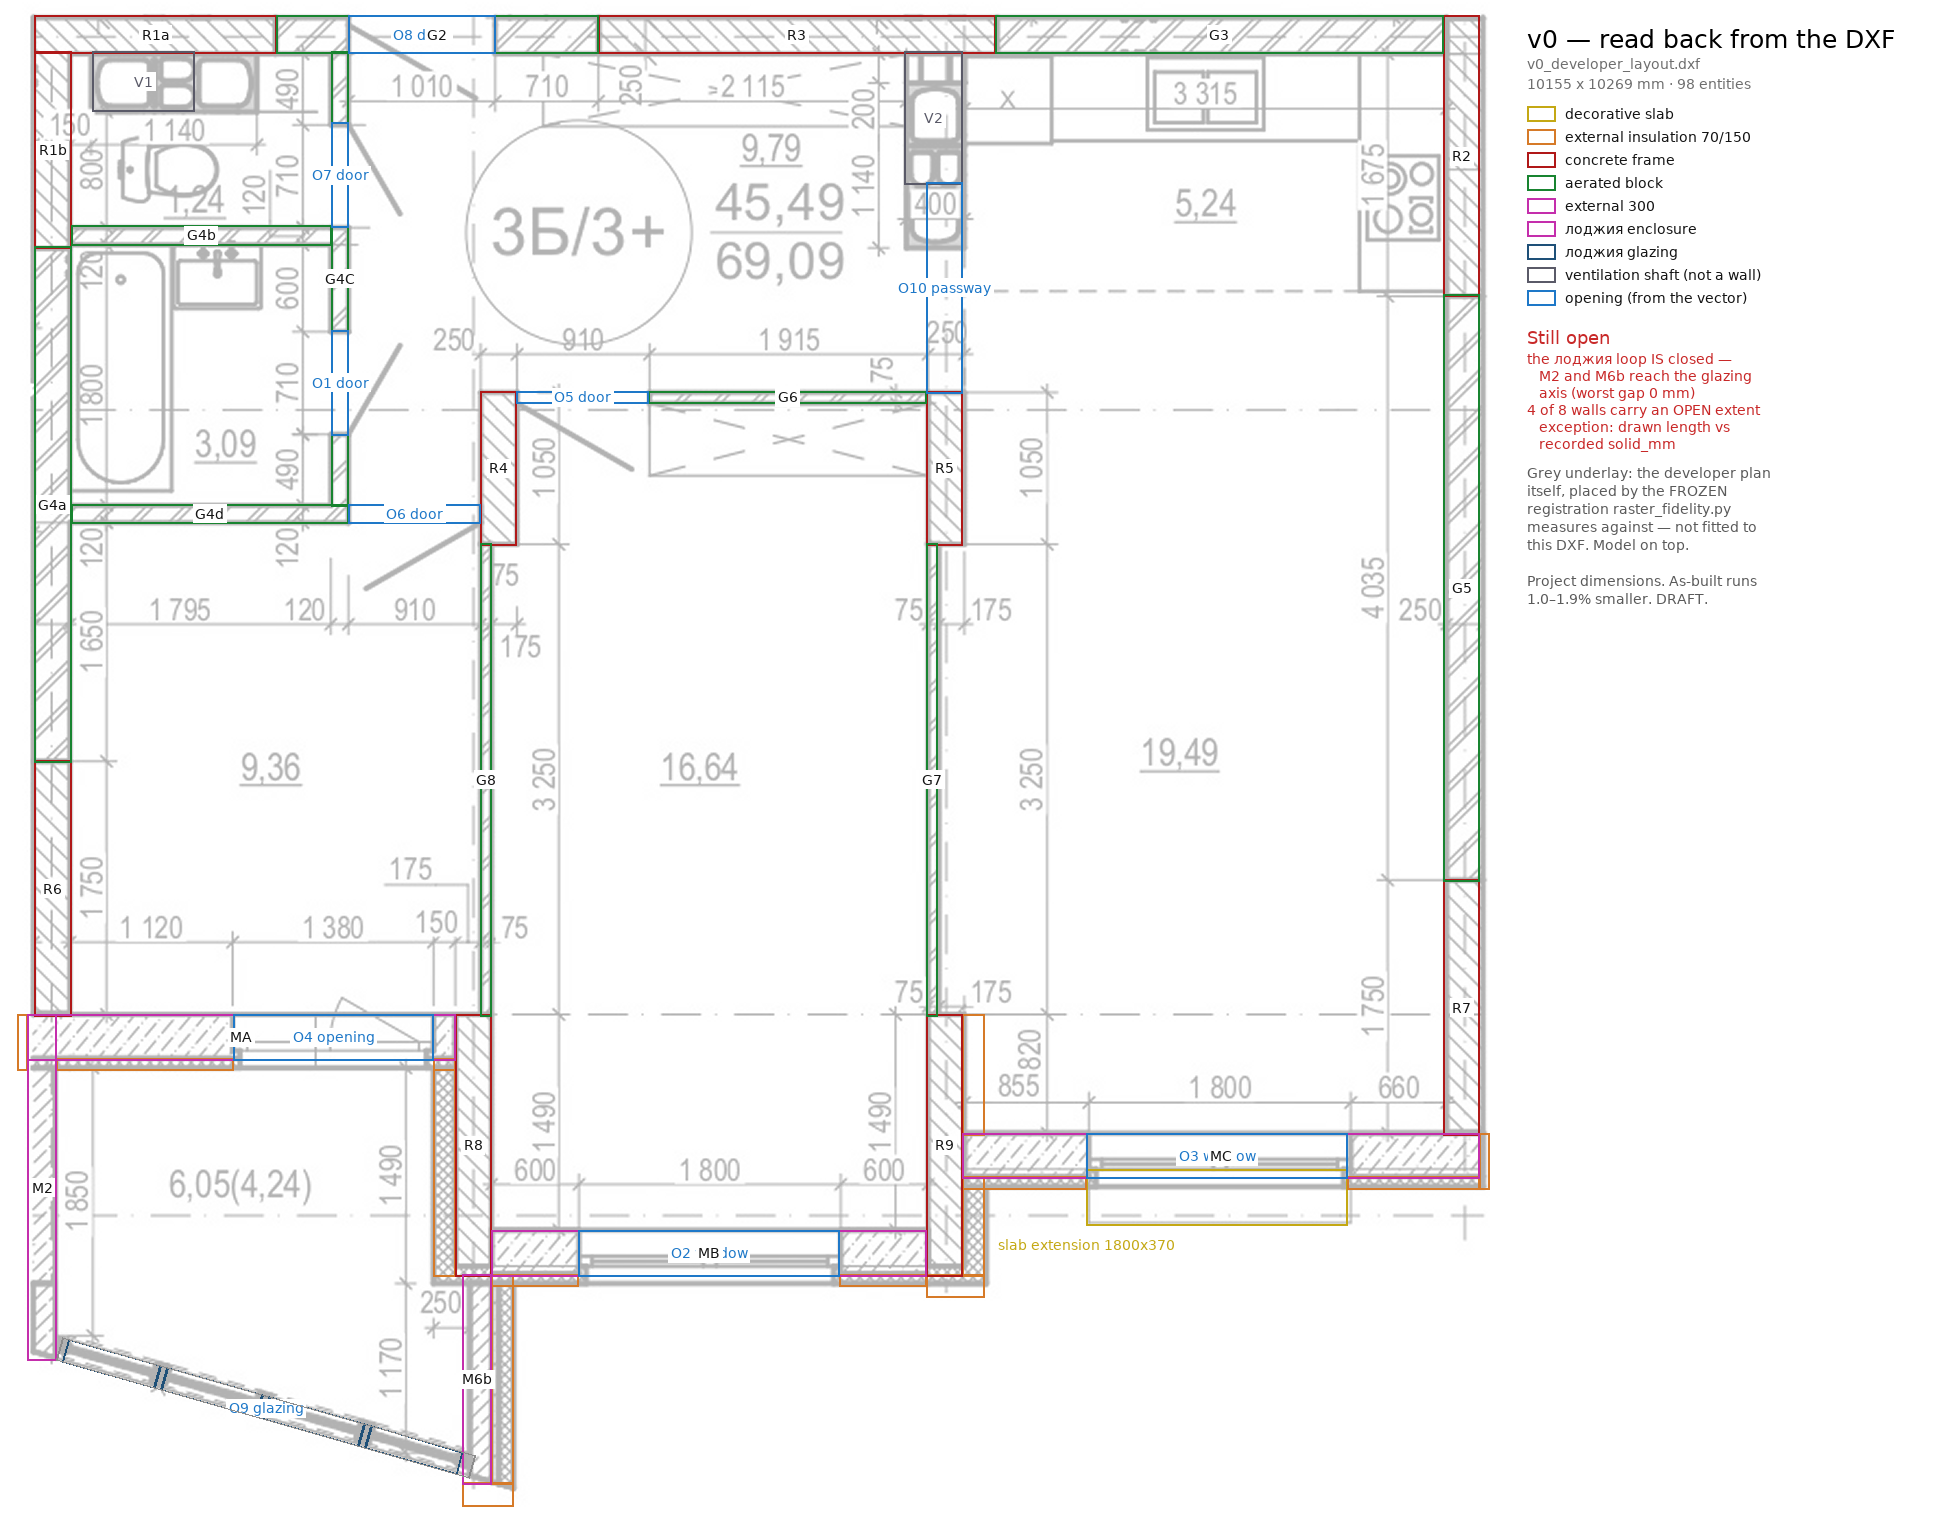
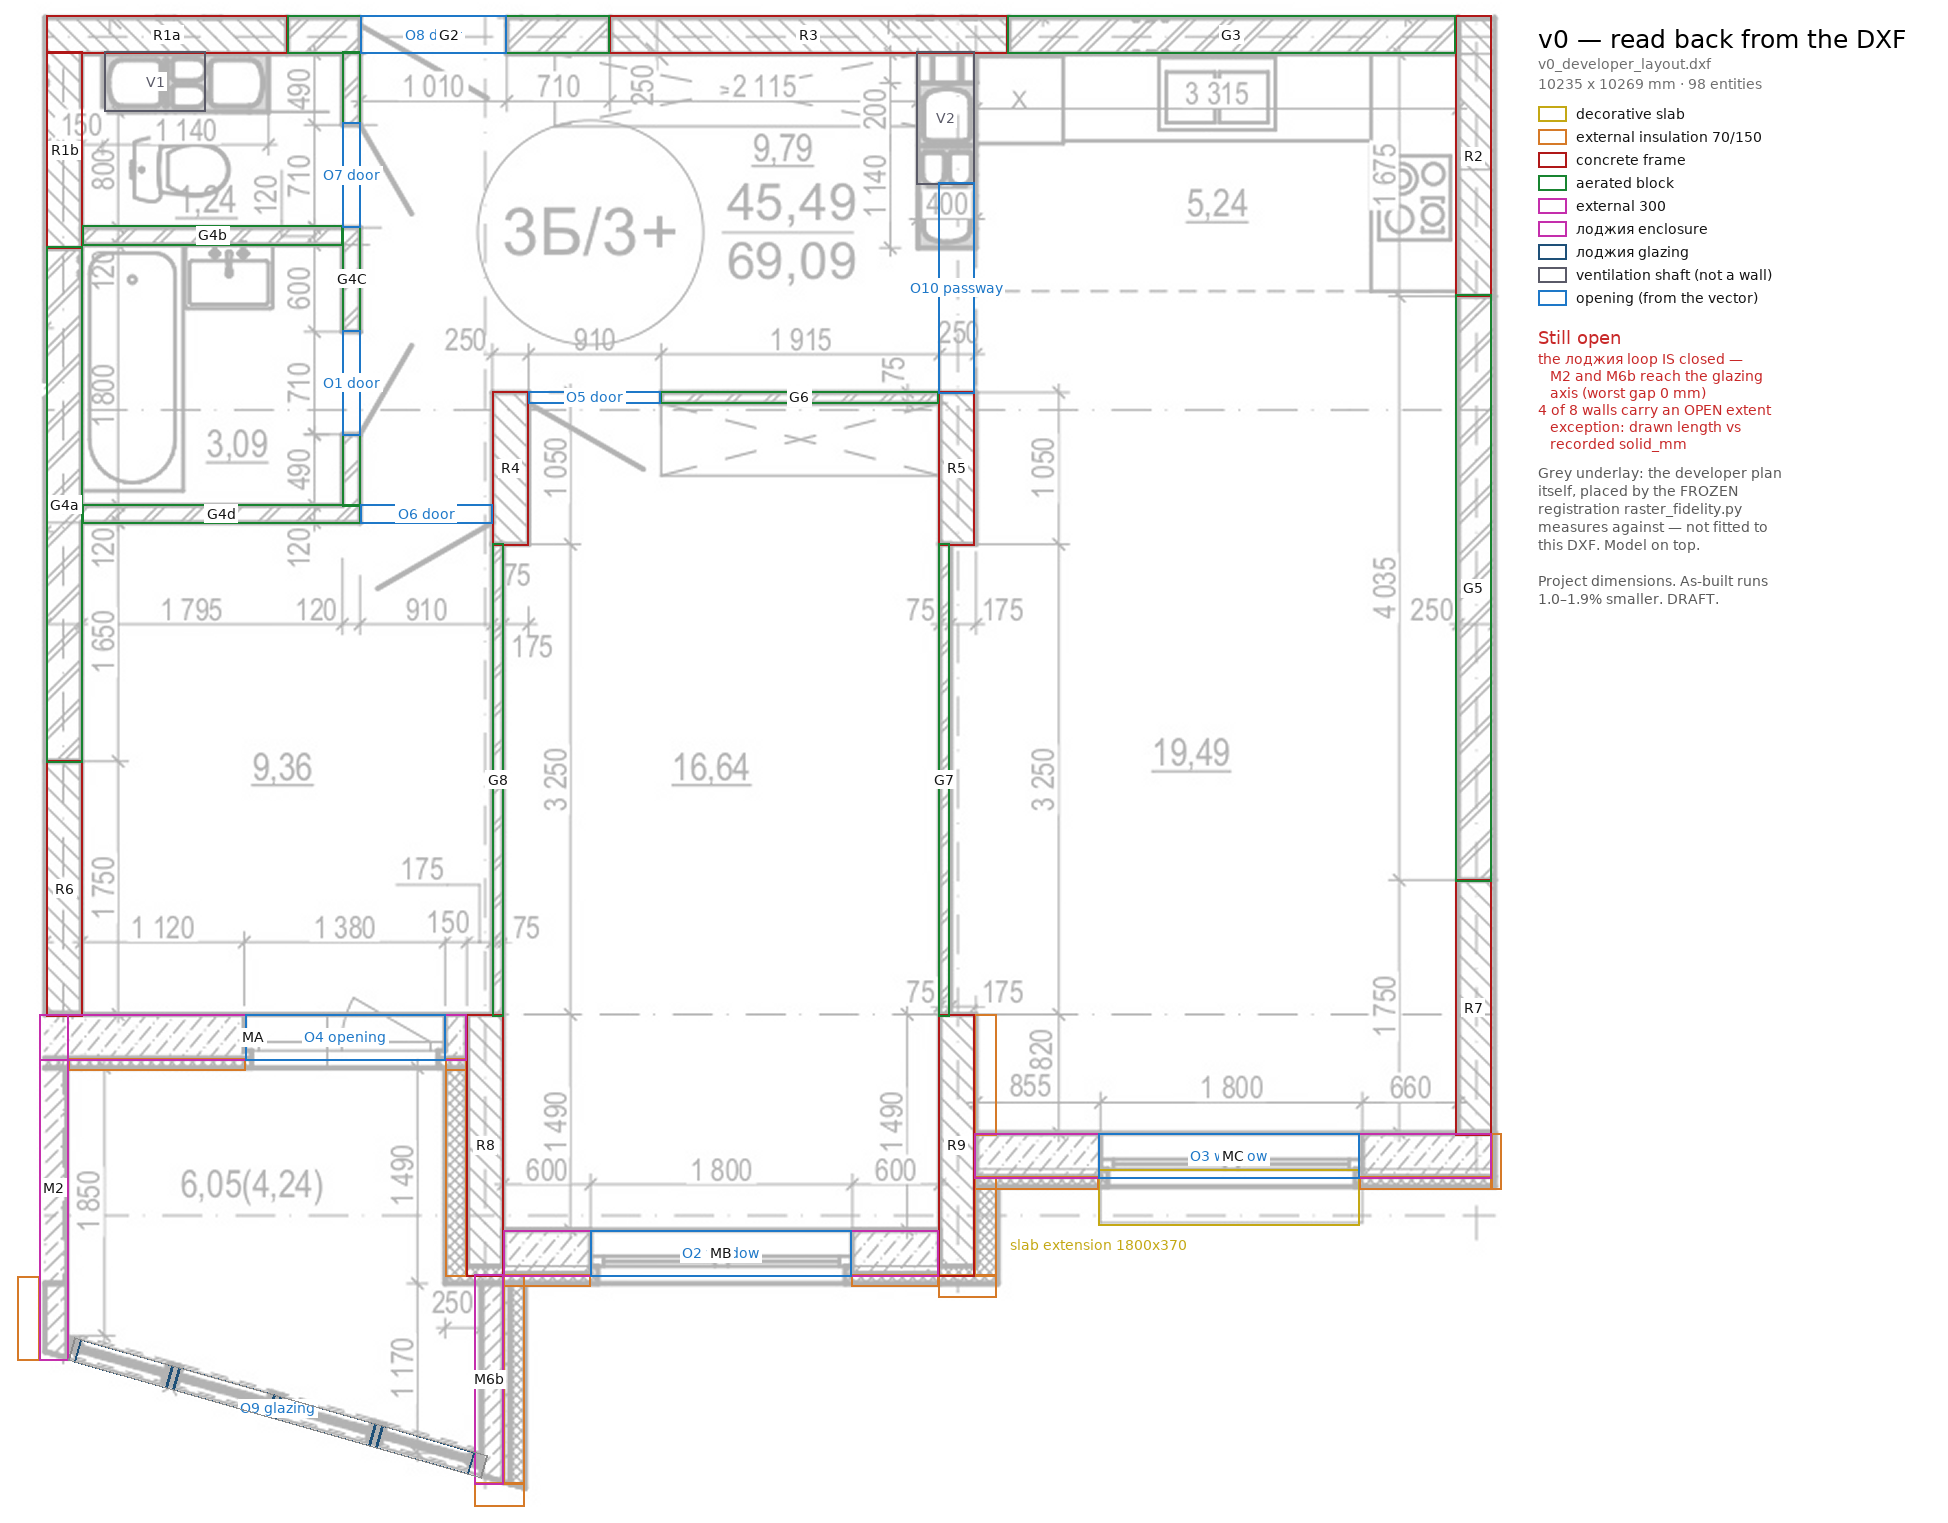
M2's west face is insulated over its southern 570 mm, and MA's cap goes
The last of the seven overlay comments, and the two that needed the owner.

M2 carries 150 mm on its LOW (west) face from y 6977.2 to 7547.2 and nothing
above that: our лоджия projects past the neighbour's at the southern end to meet
the glazing, and the rest of that face is shared between the two.

!! THE DRAWING CANNOT CORROBORATE ANY OF IT. The frozen ink mask has ZERO ink
west of 2930.9 across the whole range y 6100..9100 - the plan simply stops at M2
and draws no neighbouring structure - so the owner is the sole source for both
the extent and the fact of exposure, the same standing as M6b's 200 mm. That
same zero-ink measurement is what justified trimming MA in the previous commit.

!! THE 150 mm IS BY ANALOGY, NOT MEASURED: it matches M6b, the same class and
thickness and the лоджия's other external wall. It could as easily be the 70 mm
the MA/MB/MC facade carries, and the row says so.

The same answer suppresses MA's west END CAP. MA's west end and M2's west face
are the same plane after P_MA_west, and the shared stretch covers all of MA - so
MA's end is not exposed. Without this the end-cap rule put a 70 mm block west of
M2, which is exactly one of the "small segments outside of MA M2 and R6".

wall_blocks.csv gains insulation_from_mm / insulation_to_mm /
insulation_end_caps, so both facts are recorded DATA rather than a special case
in code.

Also fixed: the directive-branch evidence string hard-coded M6b's reasoning and
[…]

diff --git a/tools/layout/place_insulation.py b/tools/layout/place_insulation.py
@@ -293,13 +293,17 @@ def main():
             # an owner directive: this is never inferred, and a centroid rule is
             # known to get M6b wrong because the loggia is an appendix.
             if directed in ('low', 'high'):
+                # !! The reason belongs to the WALL, not to the mechanism.
+                # This message hard-coded M6b's reasoning and printed it for
+                # whatever wall took the directive branch - so when M2 gained
+                # insulation on 2026-09-15 it was labelled with an argument
+                # concluding M6b is the ONLY outward wall here, which is now
+                # false and reads as evidence against what was just recorded.
                 side, ev, status = directed, [
-                    'owner directive 2026-09-11: insulation_side=%s in '
-                    'wall_blocks.csv. The loggia is a closed space of three '
-                    'walls plus a glazed face; M2 is shared between two '
-                    'loggias and MA and R8 face back into the apartment, so '
-                    'M6b is its only outward wall.' % directed], \
-                    'from_owner_directive'
+                    'owner directive: insulation_side=%s for %s in '
+                    'wall_blocks.csv, because the drawing evidences neither '
+                    'face. The REASONING differs per wall and lives in that '
+                    'row notes column.' % (directed, w['id'])],                     'from_owner_directive'
             else:
                 unresolved.append({'wall_id': w['id'], 'insulation_mm': ins,
                                    'evidence_low': ev_lo, 'evidence_high': ev_hi})
@@ -330,12 +334,30 @@ def main():
         # insulation is for walls, and a window is not a wall.
         run0, run1 = ((w['x0'], w['x1']) if w['axis'] == 'EW'
                       else (w['y0'], w['y1']))
+        # An explicitly RECORDED extent clips the band before anything else.
+        # M2 is the case: its west face is shared with the neighbour's лоджия
+        # except at the southern end, and the drawing cannot show that - there
+        # is no ink west of M2 at all, so the owner is the only source. A wall
+        # with no recorded extent is unaffected.
+        clip = None
+        try:
+            cf = (rec.get('insulation_from_mm') or '').strip()
+            ct = (rec.get('insulation_to_mm') or '').strip()
+            if cf and ct:
+                clip = (float(cf), float(ct))
+        except ValueError:
+            clip = None
         gaps = openings_for(w['id'], openings)
         # ...and interrupted AGAIN wherever another wall's body fills the band's
         # own footprint, because that face is not exposed. See occluding_spans.
         occl = occluding_spans(box, w['axis'], w['id'], walls)
-        segs = split_run(min(run0, run1), max(run0, run1),
-                         sorted(list(gaps) + list(occl)))
+        lo_r, hi_r = min(run0, run1), max(run0, run1)
+        if clip:
+            lo_r, hi_r = max(lo_r, clip[0]), min(hi_r, clip[1])
+            print('%-17s recorded extent %.1f..%.1f - the rest of this face is '
+                  'not exposed' % ('', clip[0], clip[1]))
+        segs = (split_run(lo_r, hi_r, sorted(list(gaps) + list(occl)))
+                if hi_r > lo_r else [])
         for i, (s0, s1) in enumerate(segs):
             if w['axis'] == 'EW':
                 bx = [s0, box[1], s1, box[3]]
@@ -350,7 +372,12 @@ def main():
                           'interrupted_by': [o['opening_id'] for o in openings
                                              if o.get('wall_id') == w['id']]})
         # the layer carried around each EXPOSED end, closing the corner
-        for end, bx in exposed_end_bands(w, ins, side, walls, w['axis']):
+        caps = (rec.get('insulation_end_caps') or '').strip().lower()
+        if caps == 'none':
+            print('%-17s end caps SUPPRESSED by the record - these ends '
+                  'are not exposed' % '')
+        for end, bx in ([] if caps == 'none'
+                        else exposed_end_bands(w, ins, side, walls, w['axis'])):
             bands.append({'wall_id': w['id'], 'insulation_mm': ins,
                           'side': side, 'axis': w['axis'],
                           'segment': 'end_%s' % end, 'of_segments': None,

diff --git a/00_Master/V0_Geometry_Status.md b/00_Master/V0_Geometry_Status.md
@@ -269,6 +269,53 @@ the top wall is 214.9 against a printed 200, and O10 is 1440.0 against a
 recorded 1455 — both within 15 mm. Anchored the other way: **+299.9 and −300.0**.
 Two independent chains, both off by exactly 300 for the alternative.
 
+## The 2026-09-15 owner review of the contour overlay
+
+Seven comments drawn on `v0_dxf_readback_commented.png`. All seven are applied.
+
+| what he marked | what it was | outcome |
+| :--- | :--- | :--- |
+| *"missing segment of the R9. It should be aligned with R8"* | the known R9/G7 pair — R9 laid at `clear_mm` from the LOW end of its own solid, so its corner gain had nowhere to land and G7 swallowed the 250 | **both exceptions closed**; R9 1790.0 vs 1790, G7 3249.7 vs 3250 |
+| *"external insulation should not cover all the wall, just the exposed segment"* | R8's band ran 0.045 m² through MA's body, R9's 0.045 m² through MC's, plus three band-on-band overlaps | occlusion rule: a face another wall abuts carries no external layer |
+| *"missing pieces of insulation"* ×3 | every arrow was at a wall END, where the band stopped instead of turning the corner | the layer is carried around any end no other wall abuts |
+| *"this niche is enclosed and flush with the venting shaft"* | a 214.9 mm void above V2 that is actually an enclosed niche | V2 draws 899.9 hard against the top wall; 685 shaft + 214.9 niche kept as separate figures |
+| *"draw it as another opening"* | O9 was exported as frame + bays + mullions only | drawn on `V0-OPENING`; the only non-axis-aligned opening, matched on a bbox |
+| *"we don't need these small segments outside of MA M2 and R6"* | MA had inherited the extraction's ENVELOPE CLIP at x 2830.9 as its west face | trimmed to M2's face; exception +225.1 → **+125.1** |
+| *"M2 should touch MA, insulation between them is most likely an error"* | reverses the 2026-09-10 instruction at this junction only | confirmed by the owner; the occlusion rule already produced it |
+
+### Two that needed the owner, and why
+
+**Where MA/M2/R6 should align.** The three west faces were 2830.9 / 2930.9 /
+2980.8. ⚠ **MA's was the extraction's envelope clip — where reading the
+neighbour's structure stops — not a wall face**, and the frozen ink mask carries
+**zero ink** in the 120 mm strip west of 2930.9 across y 6100..9100, so MA's
+western 100 mm was drawn over blank paper. M2 is the alignment target because it
+is the outermost of the two; R6 sits 49.9 inboard and protrudes past nothing.
+
+**M2's west face.** Insulated over its **southern 570 mm only** (y 6977.2…7547.2,
+150 mm on the low face) — our лоджия projects past the neighbour's there to meet
+the glazing; the rest of that face is shared. ⚠ **The drawing cannot corroborate
+any of this**: there is no ink west of M2 at all, so the owner is the sole source
+for both the extent and the fact of exposure, the same standing as M6b's 200 mm.
+⚠ **The 150 mm thickness is BY ANALOGY with M6b — same class, same thickness,
+the лоджия's other external wall — and is NOT measured. It could as easily be
+the 70 mm the MA/MB/MC façade carries.** The same answer suppresses MA's west end
+cap, because MA's end and M2's face are the same plane.
+
+`wall_blocks.csv` gained `insulation_from_mm` / `insulation_to_mm` /
+`insulation_end_caps` so both are recorded data rather than code.
+
+### ⚠ An export that crashed AFTER its own report
+
+The exporter hit `KeyError: 'face_lo_mm'` on O9 — the diagonal opening falling
+through to the rectangle branch — and the crash lands **after** the wall report
+prints. So a run showed a correct `MA drawn 2950.1` on screen while the DXF on
+disk was still the previous export, and every downstream tool read a stale file.
+**Found because `check_dxf_closure.py` compared the exception ledger against the
+DXF and got 3050.1 where the exporter had just said 2950.1** — two independent
+sources disagreeing, which is the whole reason the ledger is checked against the
+drawing rather than against itself.
+
 ## Still missing
 
 - **The лоджия's M2 / M6b are exported as axis-aligned bars** — the real
